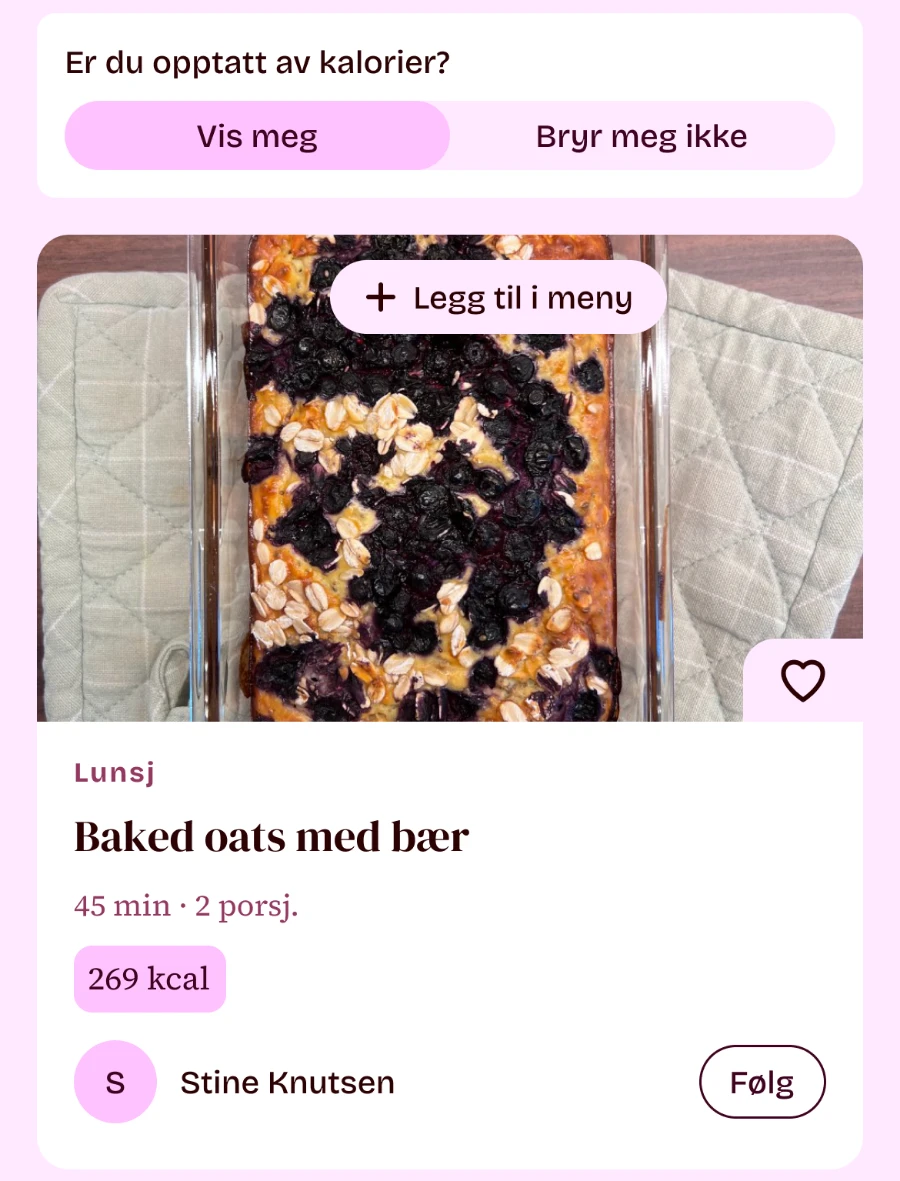
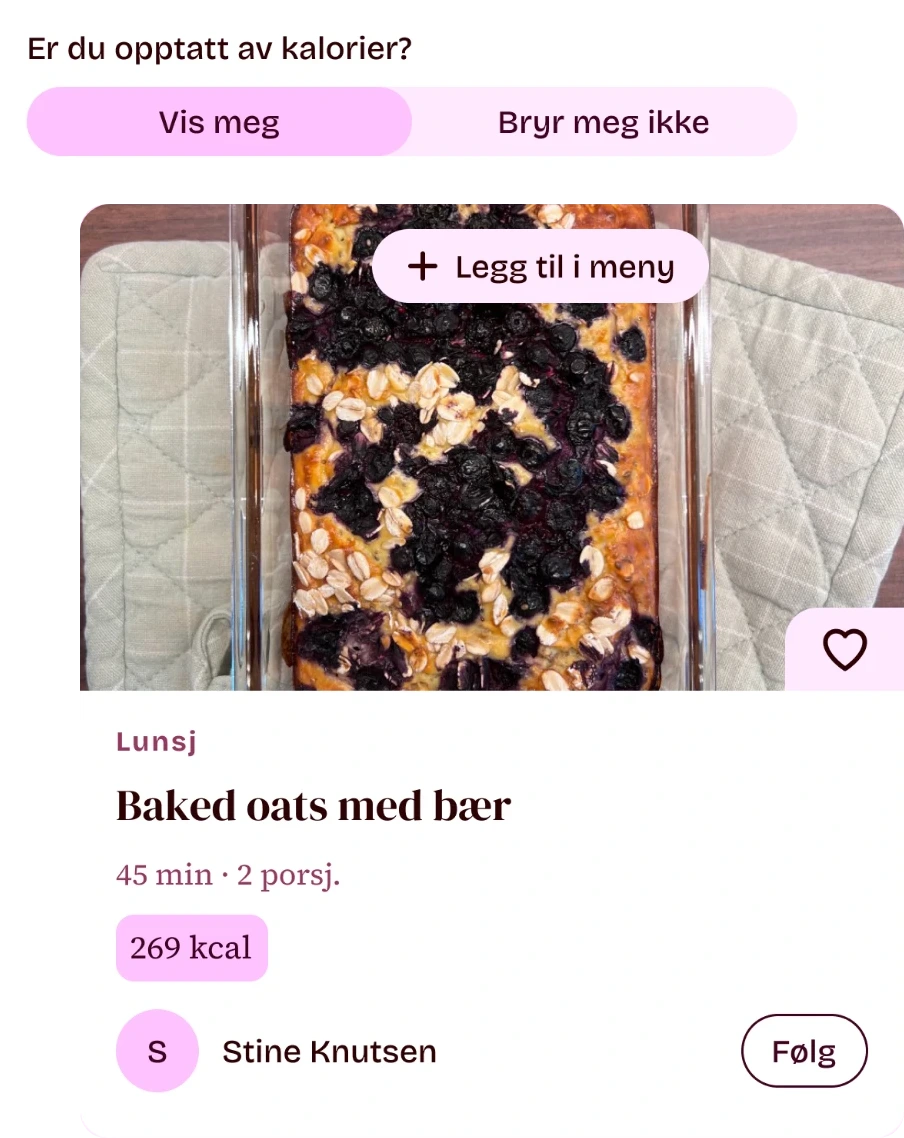
Stines oppskrifter: calorie toggle and recipe card as two separate, staggered cards on the lime panel

diff --git a/app/routes/stines-oppskrifter.tsx b/app/routes/stines-oppskrifter.tsx
@@ -279,7 +279,7 @@ export default function StinesOppskrifterRoute() {
                 phones={[
                   {
                     src: "/stines-oppskrifter/mobil-kalorier.webp",
-                    alt: "Kalorivalget på mobil, med kalorier på oppskriftskortet.",
+                    alt: "Valget «Er du opptatt av kalorier?» med «Vis meg» og «Bryr meg ikke», og oppskriften «Baked oats med bær» med 269 kcal på kortet.",
                     caption: "Kalorier på oppskriftskortet",
                   },
                 ]}
